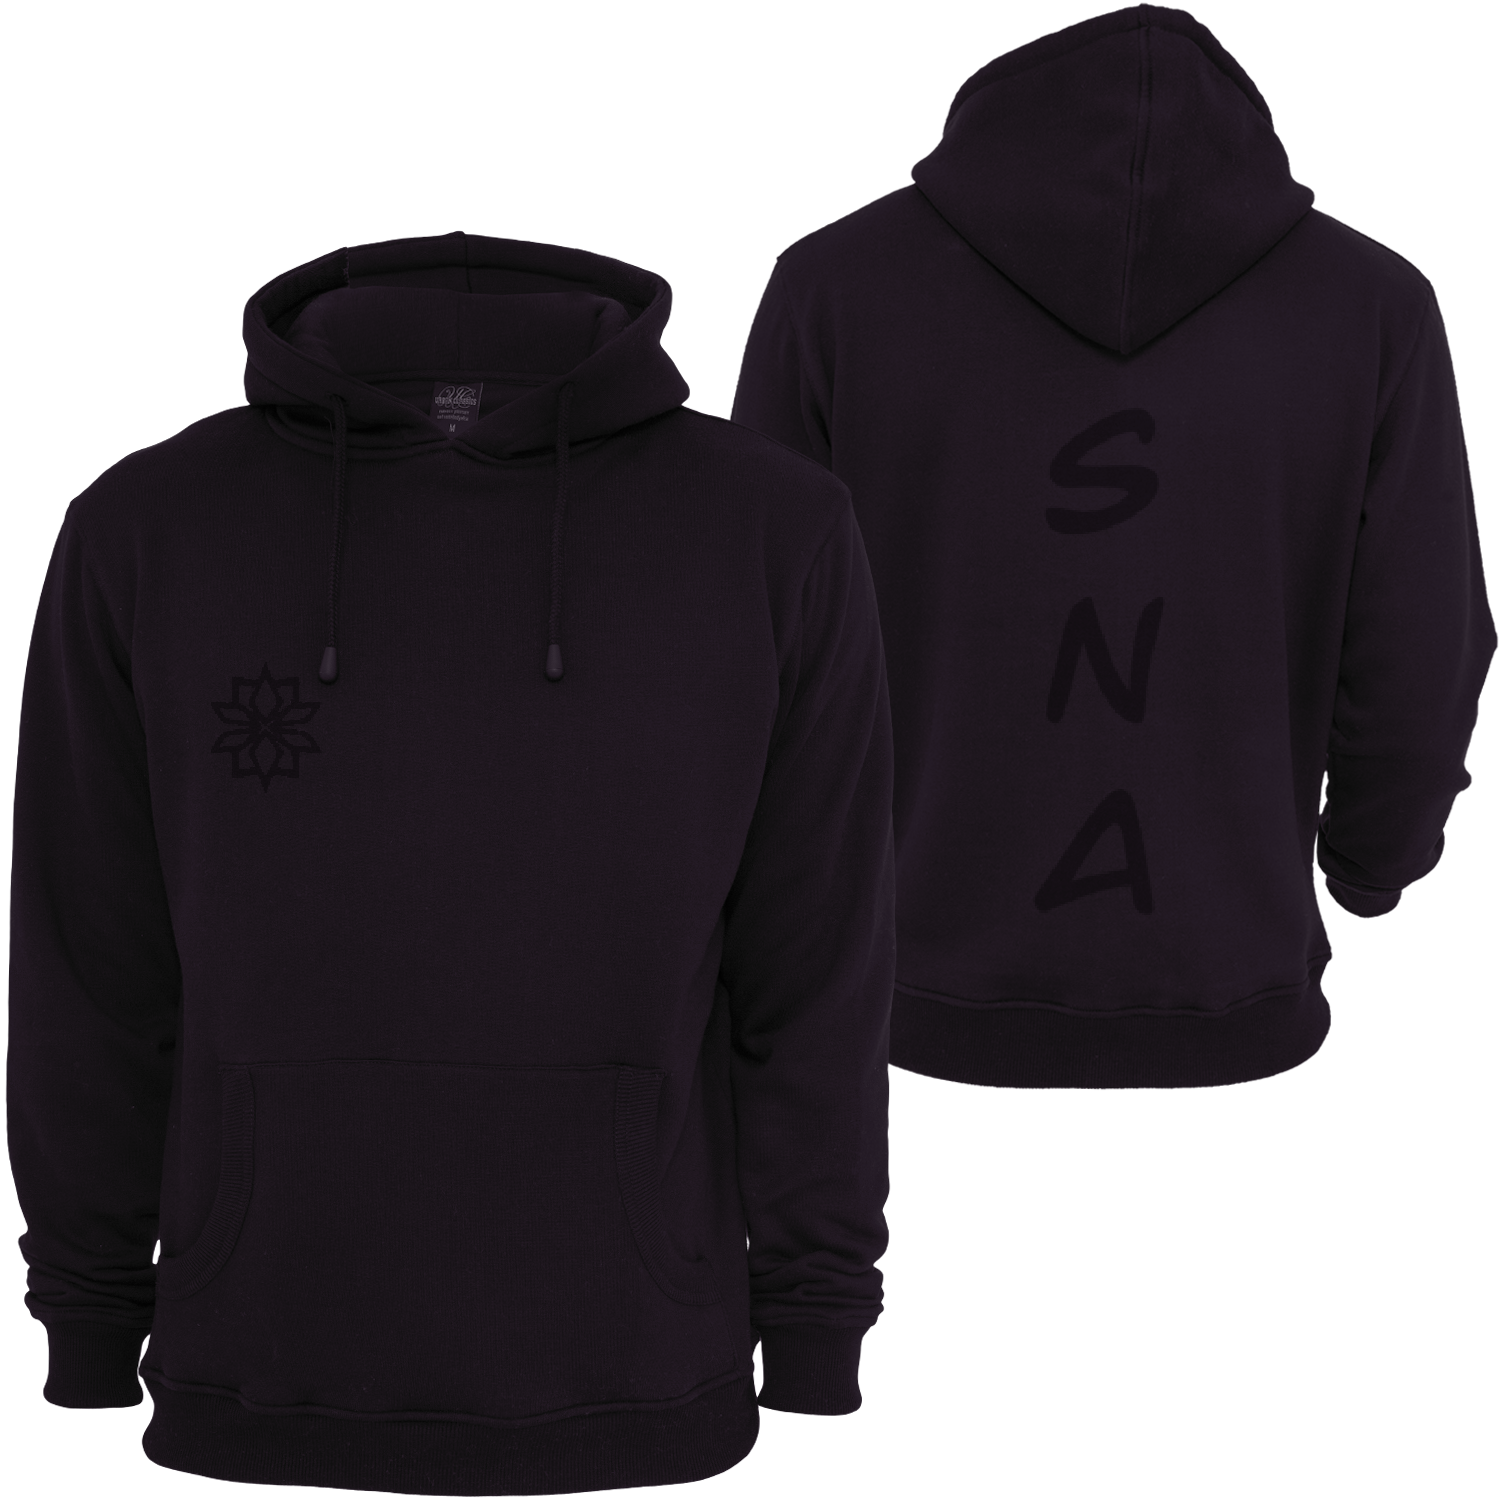
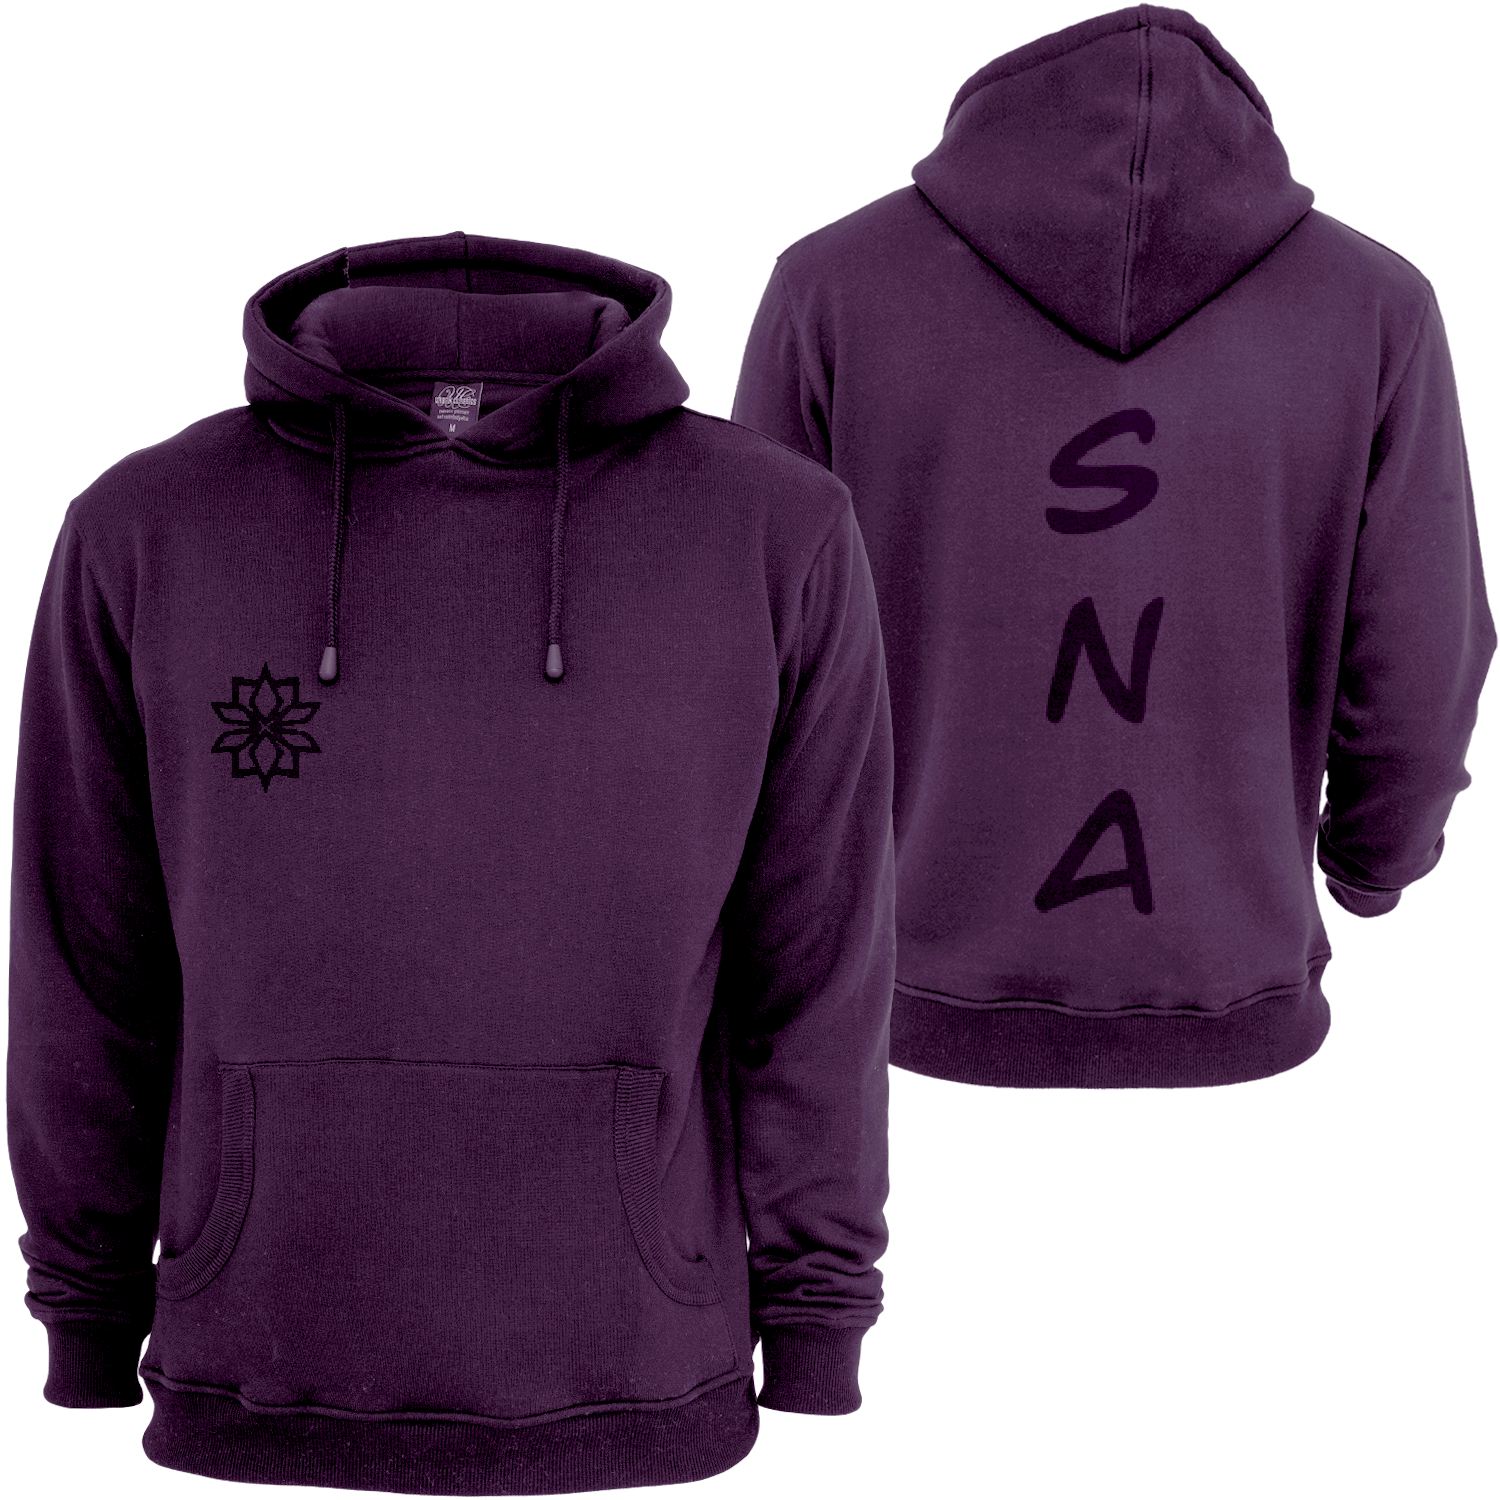
Ajout de variante dans page boutique

diff --git a/src/data/PageBoutique.js b/src/data/PageBoutique.js
@@ -6,7 +6,7 @@ export const bouteilleRose = require("@/img/PageBoutique/bouteilleSNARose.png");
 export const bouteilleVerte = require("@/img/PageBoutique/bouteilleSNAVert.png");
 export const tasseSNA = require("@/img/PageBoutique/tasseSNA.png");
 export const bouteilleJaune = require("@/img/PageBoutique/bouteilleSNAJaune.png");
-export const chandailNoir = require("@/img/PageBoutique/chandailSNARouge.png");
+export const chandailNoir = require("@/img/PageBoutique/chandailSNANoir.png");
 export const chandailRouge = require("@/img/PageBoutique/chandailSNARouge.png");
 export const hoodieNoir = require("@/img/PageBoutique/hoodieNoir.png");
 export const hoodieMauve = require("@/img/PageBoutique/hoodieMauve.png");
@@ -16,23 +16,58 @@ export const topVert = require("@/img/PageBoutique/topVertFemme.png");
 export default {
   articles: [
     {
-      nom: "Tapis SNA (Bleu)",
+      nom: "Tapis SNA",
       prix: 20,
-      img: tapisBleu,
       id: 1,
+      variantes: [
+        { nom: "Tapis SNA (Bleu)", couleur: "#8090DF", img: tapisBleu, id: 1 },
+        { nom: "Tapis SNA (Jaune)", couleur: "#F29E0E", img: tapisJaune, id: 2 },
+      ],
       count: 0,
     },
-    { nom: "Tapis SNA (Jaune)", prix: 20, img: tapisJaune, id: 2, count: 0 },
-    { nom: "Bouteille SNA (Vert)", prix: 10, img: bouteilleVerte, id: 3, count: 0 },
-    { nom: "Bouteille SNA (Bleu)", prix: 15, img: bouteilleBleu, id: 4, count: 0 },
-    { nom: "Bouteille SNA (Jaune)", prix: 20, img: bouteilleJaune, id: 5, count: 0 },
-    { nom: "Bouteille SNA (Rose)", prix: 10, img: bouteilleRose, id: 6, count: 0 },
-    { nom: "Tasse SNA", prix: 15, img: tasseSNA, id: 7, count: 0 },
-    { nom: "Chandail SNA (Noir)", prix: 25, img: chandailNoir, id: 8, count: 0 },
-    { nom: "Chandail SNA (Rouge)", prix: 25, img: chandailRouge, id: 9, count: 0 },
-    { nom: "Hoodie SNA (Noir)", prix: 40, img: hoodieNoir, id: 10, count: 0 },
-    { nom: "Hoodie SNA (Mauve)", prix: 40, img: hoodieMauve, id: 11, count: 0 },
-    { nom: "Top SNA (Rouge)", prix: 15, img: topRouge, id: 12, count: 0 },
-    { nom: "Top SNA (Vert)", prix: 15, img: topVert, id: 13, count: 0 },
+    {
+      nom: "Bouteille SNA",
+      prix: 20,
+      id: 2,
+      variantes: [
+        { nom: "Bouteille SNA (Vert)", couleur: "#648D38", prix: 10, img: bouteilleVerte, id: 3 },
+        { nom: "Bouteille SNA (Bleu)", couleur: "#7272FF", prix: 15, img: bouteilleBleu, id: 4 },
+        { nom: "Bouteille SNA (Jaune)", couleur: "#F29E0E", prix: 20, img: bouteilleJaune, id: 5 },
+        { nom: "Bouteille SNA (Rose)", couleur: "#E24977", prix: 10, img: bouteilleRose, id: 6 },
+      ],
+      count: 0,
+    },
+    {
+      nom: "Chandail SNA",
+      prix: 20,
+      id: 3,
+      variantes: [
+        { nom: "Chandail SNA (Noir)", couleur: "#000", prix: 25, img: chandailNoir, id: 8, count: 0 },
+        { nom: "Chandail SNA (Rouge)", couleur: "#990000", prix: 25, img: chandailRouge, id: 9, count: 0 },
+      ],
+      count: 0,
+    },
+    { nom: "Tasse SNA", prix: 15, img: tasseSNA, id: 4, count: 0 },
+
+    {
+      nom: "Hoodie SNA",
+      prix: 20,
+      id: 5,
+      variantes: [
+        { nom: "Hoodie SNA (Noir)", couleur: "#000", prix: 25, img: hoodieNoir, id: 8, count: 0 },
+        { nom: "Hoodie SNA (Mauve)", couleur: "#4D284F", prix: 25, img: hoodieMauve, id: 9, count: 0 },
+      ],
+      count: 0,
+    },
+    {
+      nom: "Top SNA",
+      prix: 20,
+      id: 6,
+      variantes: [
+        { nom: "Top SNA (Rouge)", couleur: "#990000", prix: 15, img: topRouge, id: 12, count: 0 },
+        { nom: "Top SNA (Vert)", couleur: "#009900", prix: 15, img: topVert, id: 13, count: 0 },
+      ],
+      count: 0,
+    },
   ],
 };

diff --git a/src/pages/PageBoutique.vue b/src/pages/PageBoutique.vue
@@ -8,9 +8,18 @@
       </div>
       <!--------------------Les Articles (Boucle)------------------------>
       <v-row class="zoneArticles">
-        <v-col class="blocArticles" cols="12" sm="6" md="4" v-for="article in lesArticles" :key="article.id">
+        <v-col class="blocArticles" cols="12" sm="6" md="3" v-for="article in lesArticles" :key="article.id">
           <v-card class="lesArticles">
-            <v-img :src="article.img" alt="pas image"></v-img>
+            <v-img :src="article.img || article.variantes[0].img" alt="pas image">
+              <div v-if="article.variantes" class="variantColors">
+                <div
+                  class="colorSelector"
+                  v-for="variant in article.variantes"
+                  :key="variant.id"
+                  :style="{ backgroundColor: variant.couleur }"
+                  @click="updateImg(article, variant)"
+                ></div></div
+            ></v-img>
             <h3>{{ article.nom }}</h3>
             <p>${{ article.prix }}.00 CAD</p>
 
@@ -56,10 +65,35 @@ export default {
       article.count++;
       console.log(article);
     },
+    updateImg(article, variant) {
+      article.img = variant.img;
+      article.nom = variant.nom;
+    },
   },
 };
 </script>
 <style scoped>
+.variantColors {
+  display: flex;
+  padding: 20px;
+  flex-direction: column;
+  align-items: flex-end;
+}
+
+.colorSelector {
+  height: 40px;
+  width: 40px;
+  border-radius: 50%;
+  display: inline-block;
+  cursor: pointer;
+  margin: 5px;
+  border: 1px solid #ccc; /* Add border to distinguish light colors */
+}
+.colorSelector:hover {
+  opacity: 0.7;
+  scale: 1.05;
+}
+
 main {
   padding: 4rem 0;
   height: auto;
@@ -76,7 +110,6 @@ main {
 /*//////////////////Les articles////////////////////*/
 .zoneArticles {
   display: flex;
-  justify-content: space-around;
 }
 .lesArticles {
   display: flex;
